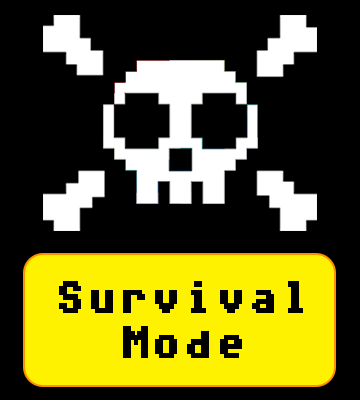
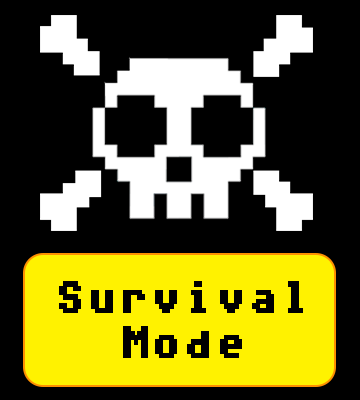
New higher res images for buttons and css hover propreties

diff --git a/res/stylesheet/main_menu_style.css b/res/stylesheet/main_menu_style.css
@@ -3,6 +3,7 @@
 	src: url('PreschoolBits.ttf');
  }
  
+ 
 #mainpanel{
 	-fx-font-size: 20px;
 	-fx-background-image: url("pang.jpg");
@@ -38,30 +39,48 @@
 	-fx-background-color: black;
 	-fx-background-image: url("singleplayer.png");
 	-fx-background-repeat: no-repeat;
-	-fx-background-size: 80% 100%;
+	-fx-background-size: cover;
+	-fx-background-size: 65%;
     -fx-background-position: center center;
+}
+
+#single:hover{
+	-fx-background-size: 60%;
 }
 
 #multi{
 	-fx-background-color: black;
 	-fx-background-image: url("multiplayer.png");
 	-fx-background-repeat: no-repeat;
-	-fx-background-size: 80% 100%;
+	-fx-background-size: cover;
+	-fx-background-size: 65%;
     -fx-background-position: center center;
+}
+#multi:hover{
+	-fx-background-size: 60%;
 }
 
 #survival{
 	-fx-background-color: black;
 	-fx-background-image: url("survivalmode.png");
 	-fx-background-repeat: no-repeat;
-	-fx-background-size: 80% 100%;
+	-fx-background-size: cover;
+	-fx-background-size: 65%;
     -fx-background-position: center center;
+}
+#survival:hover{
+	-fx-background-size:60%;
 }
 
 #arcade{
 	-fx-background-color: black;
 	-fx-background-image: url("tourmode.png");
 	-fx-background-repeat: no-repeat;
-	-fx-background-size: 80% 100%;
+	-fx-background-size: cover;
+	-fx-background-size: 65%;
     -fx-background-position: center center;
 }
+#arcade:hover{
+	-fx-background-size: 60%;
+}
+
